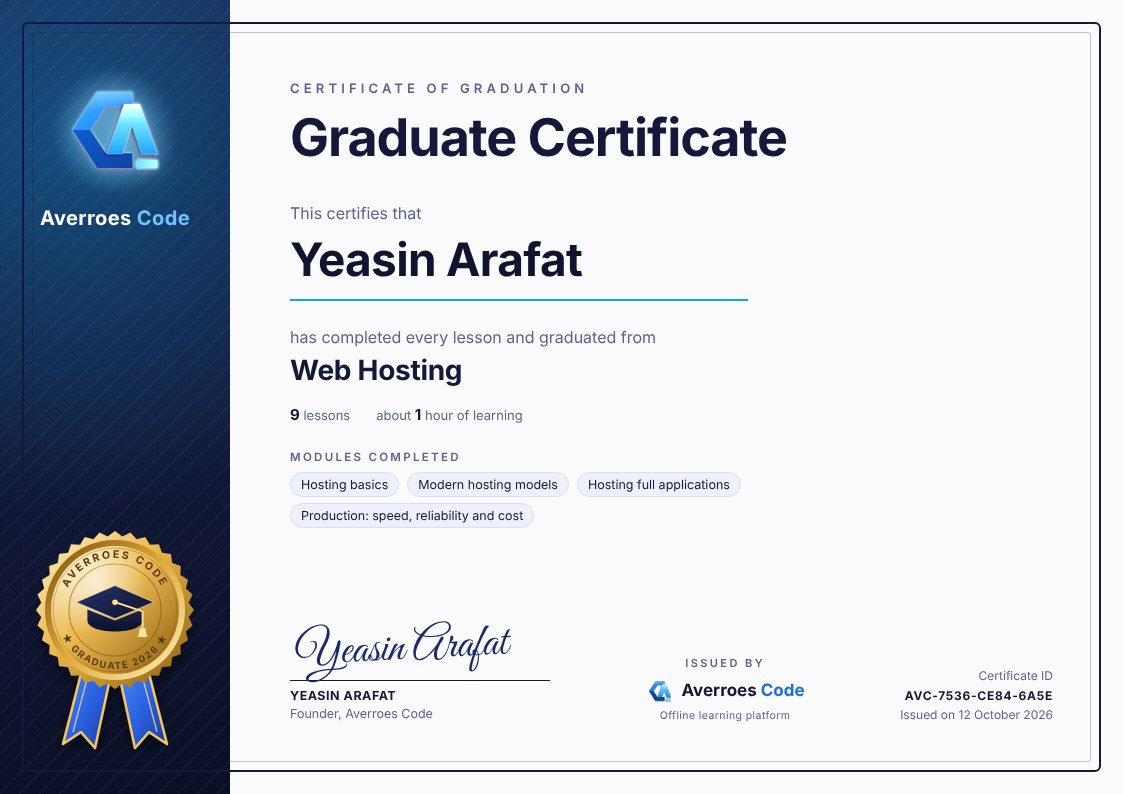
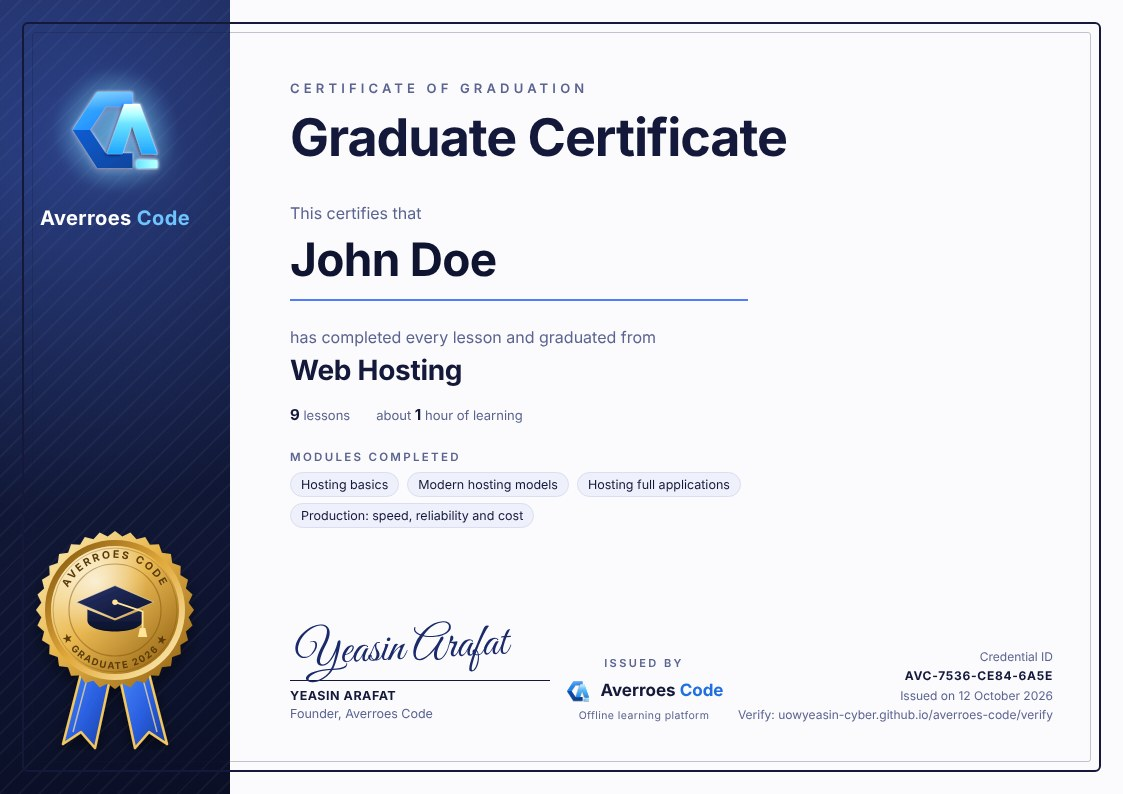
Sample certificate shows John Doe; add credential verify page
Claude-Session: https://claude.ai/code/session_011dpDwMiPRh2nGfezbKmSUN

Changed region(s): [[0.4987, 0.8161, 0.935, 0.9068], [0.2493, 0.3023, 0.6545, 0.3929]]

diff --git a/averroes-code/verify.html b/averroes-code/verify.html
@@ -1,0 +1,81 @@
+<!DOCTYPE html>
+<html lang="en">
+<head>
+<meta charset="utf-8">
+<meta name="viewport" content="width=device-width, initial-scale=1">
+<title>Verify a credential · Averroes Code</title>
+<meta name="description" content="Check that an Averroes Code certificate or award is real.">
+<link rel="icon" href="logo.svg" type="image/svg+xml">
+<link rel="preconnect" href="https://fonts.googleapis.com">
+<link href="https://fonts.googleapis.com/css2?family=Inter:wght@400;600;700&display=swap" rel="stylesheet">
+<style>
+:root { --bg: #0b1029; --bg2: #121a3d; --line: rgba(255,255,255,.1); --text: #e8ecff; --muted: #9aa6d8; --blue: #2f8cff; --blue2: #6fc3ff; --ok: #34d399; --bad: #f87171; }
+* { box-sizing: border-box; }
+body { margin: 0; font-family: Inter, system-ui, sans-serif; background: radial-gradient(ellipse at 70% 0%, rgba(47,140,255,.2), transparent 55%), var(--bg); color: var(--text); line-height: 1.6; min-height: 100vh; }
+a { color: var(--blue2); text-decoration: none; }
+.wrap { max-width: 720px; margin: 0 auto; padding: 0 20px; }
+nav { border-bottom: 1px solid var(--line); }
+nav .wrap { display: flex; align-items: center; gap: 10px; height: 62px; font-weight: 700; font-size: 18px; }
+nav span { color: var(--blue2); }
+h1 { font-size: clamp(28px, 5vw, 40px); letter-spacing: -.02em; margin: 56px 0 8px; }
+.sub { color: var(--muted); margin: 0 0 28px; }
+form { display: flex; gap: 10px; flex-wrap: wrap; }
+input { flex: 1; min-width: 220px; padding: 13px 16px; border-radius: 12px; border: 1px solid var(--line); background: var(--bg2); color: var(--text); font: 600 16px Inter, sans-serif; letter-spacing: .06em; text-transform: uppercase; }
+button { padding: 13px 22px; border-radius: 12px; border: 1px solid #3d97ff; background: linear-gradient(180deg, #3d97ff, #1f6fe0); color: #fff; font: 600 15px Inter, sans-serif; cursor: pointer; }
+.result { margin-top: 28px; padding: 24px; border-radius: 16px; border: 1px solid var(--line); background: var(--bg2); display: none; }
+.result.show { display: block; }
+.result.ok { border-color: rgba(52,211,153,.5); }
+.result.bad { border-color: rgba(248,113,113,.5); }
+.badge { display: inline-flex; align-items: center; gap: 8px; font-weight: 700; }
+.ok .badge { color: var(--ok); }
+.bad .badge { color: var(--bad); }
+dl { display: grid; grid-template-columns: 140px 1fr; gap: 8px 16px; margin: 18px 0 0; }
+dt { color: var(--muted); }
+dd { margin: 0; font-weight: 600; }
+.note { color: var(--muted); font-size: 14px; margin-top: 14px; }
+@media (max-width: 560px) { dl { grid-template-columns: 1fr; gap: 2px; } dd { margin-bottom: 8px; } }
+</style>
+</head>
+<body>
+<nav><div class="wrap"><a href="./" style="color:inherit;display:flex;align-items:center;gap:10px"><img src="logo.svg" width="30" height="30" alt="">Averroes&nbsp;<span>Code</span></a></div></nav>
+<main class="wrap">
+<h1>Verify a credential</h1>
+<p class="sub">Type the credential ID printed on an Averroes Code certificate or award, for example AVC-7536-CE84-6A5E.</p>
+<form id="f"><input id="id" placeholder="AVC-XXXX-XXXX-XXXX" autocomplete="off" spellcheck="false" maxlength="18"><button>Check</button></form>
+<div id="out" class="result"></div>
+</main>
+<script>
+// Public read of the certificate record (Firestore rules allow only reading single IDs).
+const KEY = 'AIzaSyCzrq7-bUqGZ0XbKyH97UEAcP4Noi26FFM';
+const DB = 'https://firestore.googleapis.com/v1/projects/averroes-code-5a5b8/databases/(default)/documents/certs/';
+const KINDS = { course: 'Graduate certificate', module: 'Module certificate', award: 'Course award', achievement: 'Award / certificate' };
+const out = document.getElementById('out');
+const input = document.getElementById('id');
+const esc = (s) => String(s).replace(/[&<>"]/g, (c) => ({ '&': '&amp;', '<': '&lt;', '>': '&gt;', '"': '&quot;' }[c]));
+function show(cls, html) { out.className = `result show ${cls}`; out.innerHTML = html; }
+async function check(raw) {
+  const id = raw.trim().toUpperCase();
+  if (!/^AVC-[0-9A-F]{4}-[0-9A-F]{4}-[0-9A-F]{4}$/.test(id)) return show('bad', '<div class="badge">✕ That is not a valid credential ID</div><p class="note">IDs look like AVC-7536-CE84-6A5E (letters A to F and numbers).</p>');
+  history.replaceState(null, '', `?id=${id}`);
+  show('', 'Checking…');
+  try {
+    const res = await fetch(`${DB}${id}?key=${KEY}`);
+    if (res.status === 404 || res.status === 403) {
+      return show('bad', `<div class="badge">✕ No record of ${esc(id)}</div><p class="note">If the certificate was made while the app was offline, its ID is saved the next time the app is opened with internet. Ask the owner to open the certificate once while online, then check again.</p>`);
+    }
+    if (!res.ok) throw new Error(`HTTP ${res.status}`);
+    const f = (await res.json()).fields || {};
+    const v = (k) => (f[k] ? f[k].stringValue ?? f[k].integerValue : '');
+    const date = new Date(Number(v('issued'))).toLocaleDateString('en-GB', { day: 'numeric', month: 'long', year: 'numeric' });
+    show('ok', `<div class="badge">✓ Verified credential</div>
+<dl><dt>Credential ID</dt><dd>${esc(id)}</dd><dt>Awarded to</dt><dd>${esc(v('name'))}</dd><dt>Title</dt><dd>${esc(v('title'))}</dd>${v('detail') ? `<dt>For</dt><dd>${esc(v('detail'))}</dd>` : ''}<dt>Type</dt><dd>${esc(KINDS[v('kind')] || v('kind'))}</dd><dt>Issued</dt><dd>${esc(date)}</dd><dt>Issued by</dt><dd>Averroes Code</dd></dl>`);
+  } catch (err) {
+    show('bad', `<div class="badge">Could not check right now</div><p class="note">${esc(err.message)}. Check your internet connection and try again.</p>`);
+  }
+}
+document.getElementById('f').addEventListener('submit', (e) => { e.preventDefault(); check(input.value); });
+const q = new URLSearchParams(location.search).get('id');
+if (q) { input.value = q; check(q); }
+</script>
+</body>
+</html>
